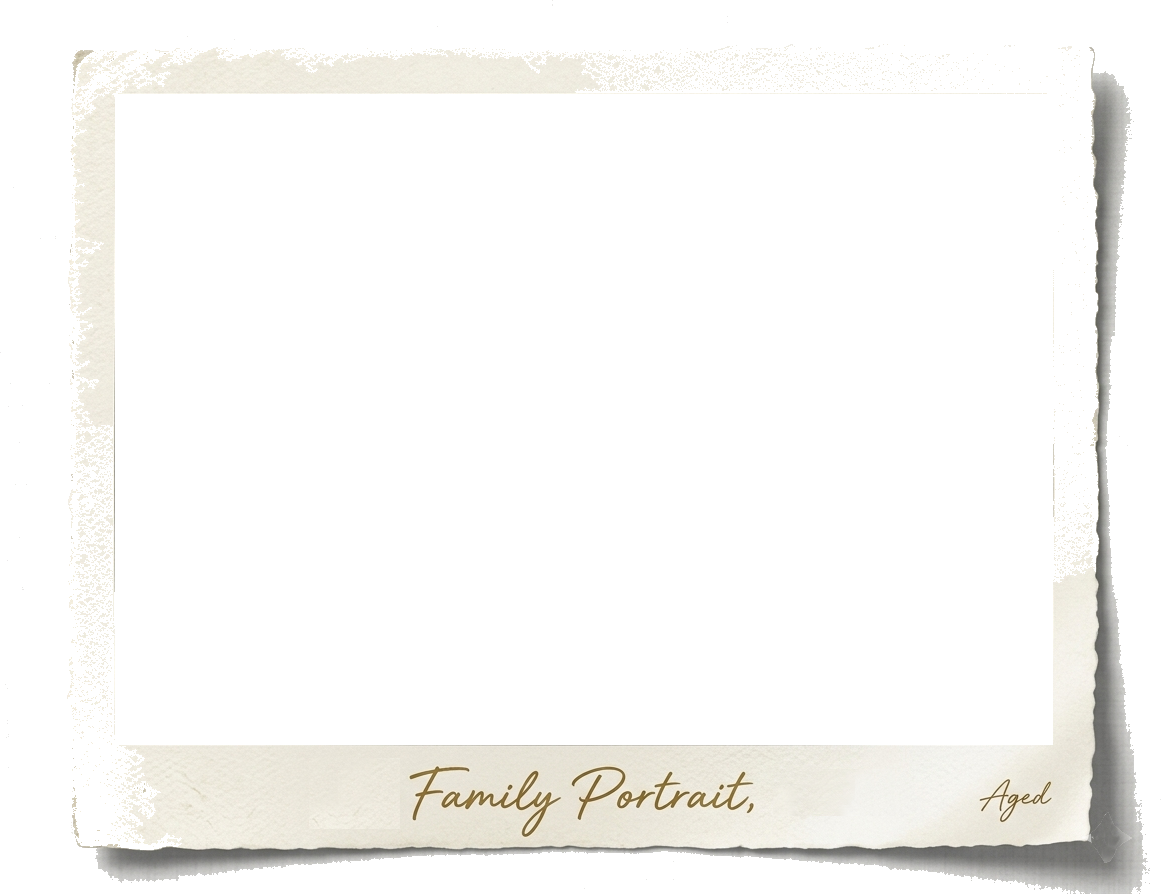
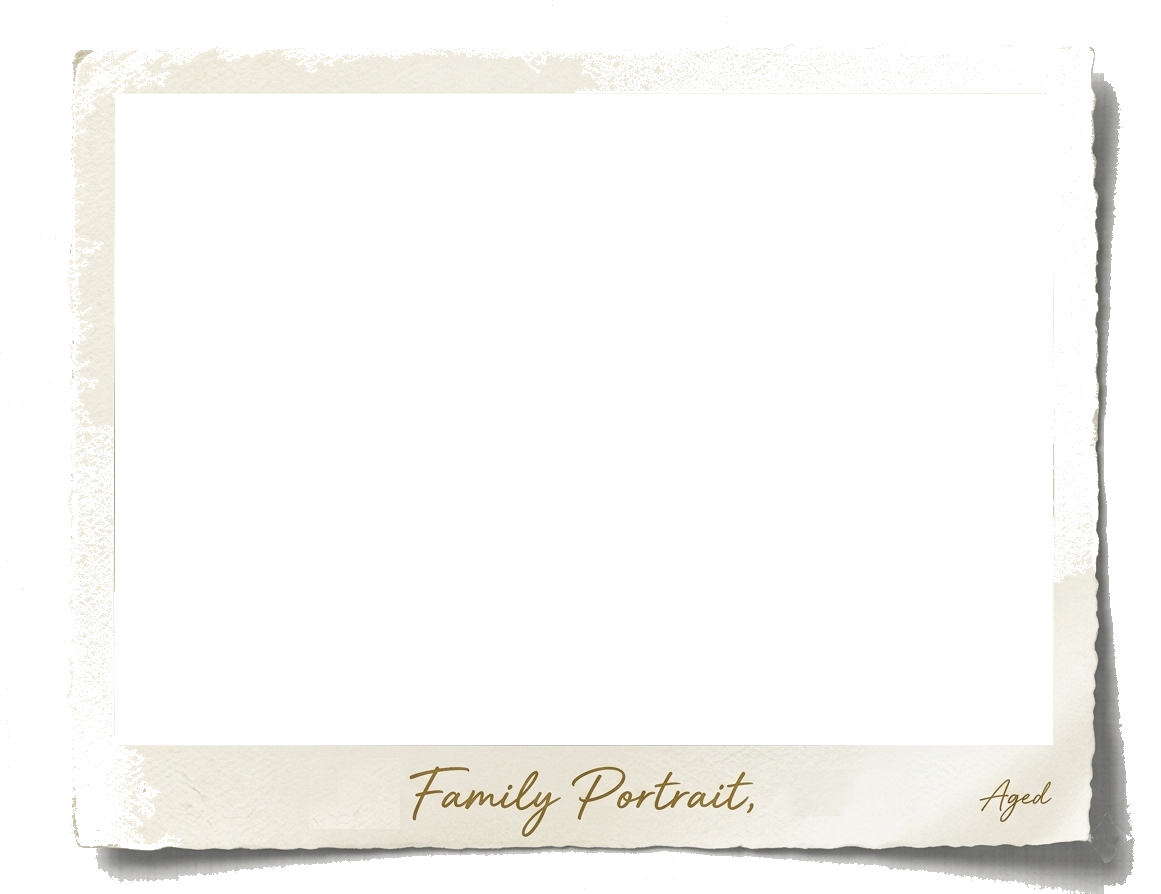
fix(dashboard): trim polaroid shadow fringe and narrow backplate mask
Remove light right-side drop shadow from the PNG and limit the canvas backplate to semi-transparent edge pixels so dark mode no longer shows a white halo or purple border bleed.

diff --git a/app/components/PhotoFrames.tsx b/app/components/PhotoFrames.tsx
@@ -63,14 +63,14 @@ export const POLAROID_FRAME_INSET_CLASS =
 export const POLAROID_PAPER_LANDSCAPE_SRC =
   '/photo-frames/polaroid-paper-landscape.png';
 
-/** prepare-polaroid-backplate-mask.mjs — PNG 실루엣 하드 마스크 (찢어진 코너 제외) */
+/** prepare-polaroid-backplate-mask.mjs — 반투명 구간 전용 마스크 */
 export const POLAROID_BACKPLATE_MASK_SRC =
   '/photo-frames/polaroid-paper-landscape-backplate-mask.png';
 
 /**
- * PNG export 캔버스색 + 실루엣 마스크
- * - 그림자·반투명 테두리 아래: 불투명 회색(보라 혼색·하얀 그림자 방지)
- * - 투명 코너: 마스크 제외(사각 백플레이트가 액자 밖으로 커 보이지 않음)
+ * PNG export 캔버스색 + 반투명 구간 전용 마스크
+ * - 그림자·테두리(20<=alpha<252) 아래만 불투명 회색 — 보라 혼색 방지
+ * - 불투명 종이·투명 코너는 마스크 제외 — 액자 밖 하얀/회색 박스 방지
  */
 export const POLAROID_PAPER_BACKPLATE_CLASS =
   'pointer-events-none absolute inset-0 z-0 bg-[#e5e5e3] [-webkit-mask-image:url(/photo-frames/polaroid-paper-landscape-backplate-mask.png)] [-webkit-mask-size:100%_100%] [-webkit-mask-repeat:no-repeat] [mask-image:url(/photo-frames/polaroid-paper-landscape-backplate-mask.png)] [mask-size:100%_100%] [mask-repeat:no-repeat]';